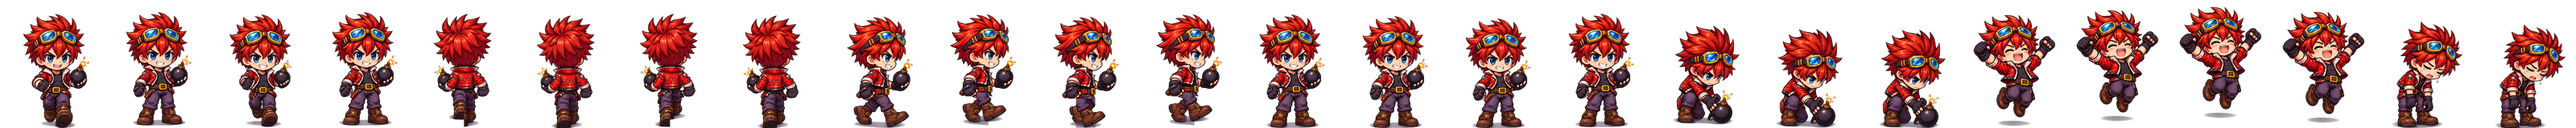
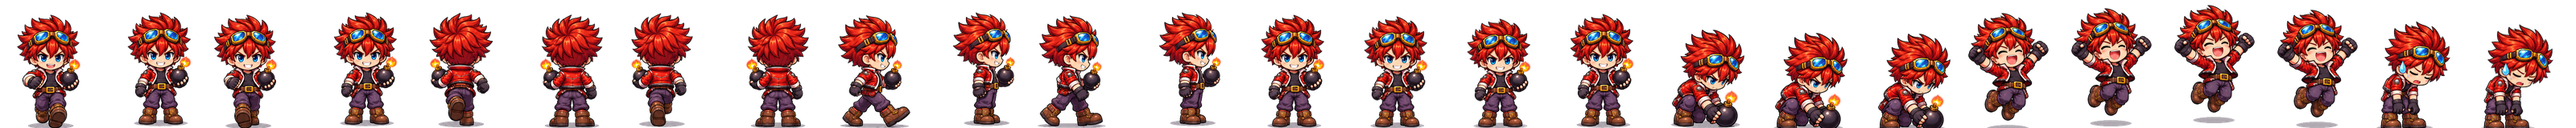
Demolidor em 12 poses com passos reais; folhas de cor antigas removidas
Claude-Session: https://claude.ai/code/session_01GYAS9qPtfjEUuFc1mzz6HS

diff --git a/public/src/config/hdArt.js b/public/src/config/hdArt.js
@@ -37,4 +37,4 @@ export const HD_GROUPS = {"0_0": ["map_w0z0", "rock_w0z0", "rock_w0z0_d1", "rock
 
 // Heróis: folha hc_CLASSE_rRARIDADE.png (cores da variação 0) com quadros fw×fh; recolor[v] = pares [cor da variação 0, cor da variação v];
 // anims = [primeiro quadro, quantidade, quadros/s, ordem opcional].
-export const HD_HEROES = {"fw": 64, "fh": 80, "lw": 16.0, "lh": 20.0, "pivot": 0.7, "fieldScale": 4, "palettes": 8, "rarities": 5, "idleFrame": 12, "roles": ["attacker", "support", "collector", "specialist"], "frames": 25, "anims": {"walk_down": [0, 4, 9], "walk_up": [4, 4, 9], "walk_side": [8, 4, 10], "idle": [12, 4, 6, [0, 0, 0, 1, 2, 2, 2, 2, 1, 0, 0, 0, 1, 2, 2, 2, 2, 1, 0, 3, 0, 0]], "plant": [16, 3, 12], "cheer": [19, 4, 10], "tired": [23, 2, 3]}, "recolor": [[], [[1313802, 526348], [1981050, 3809296], [2758672, 1184288], [3038384, 5911576], [4466712, 1973808], [4858904, 3808272], [4884184, 8014886], [6175266, 2894916], [7231409, 8276082], [7826385, 9524087], [8015920, 4210780], [8670327, 7227013], [8931959, 8275314], [8946920, 10772863], [9062960, 6961184], [9091312, 10119742], [10119748, 5921400], [11379190, 12022669], [12745302, 10115638], [13532316, 12020361], [13596254, 11886922], [15111602, 13664154], [15307127, 13662301], [15377532, 12877396], [15641287, 14717873], [16304288, 14721146]], [[1313802, 3810312], [2758672, 6965780], [4466712, 10122276], [4858904, 5122592], [6175266, 13147194], [8015920, 15254624], [8670327, 12024190], [8931959, 9063804], [9062960, 9721930], [10119748, 16442522], [12745302, 13668472], [13532316, 14125488], [13596254, 14189684], [15111602, 15508424], [15307127, 15704464], [15377532, 16039074], [15641287, 15906012], [16304288, 16767172]], [[1313802, 526348], [1981050, 3809296], [2758672, 1184288], [3038384, 5911576], [4466712, 1973808], [4858904, 2757642], [4884184, 8014886], [6175266, 2894916], [7231409, 8276082], [7826385, 9524087], [8015920, 4210780], [8670327, 7227013], [8931959, 7684207], [8946920, 10772863], [9062960, 5122068], [9091312, 10119742], [10119748, 5921400], [11379190, 12022669], [12745302, 7618590], [13532316, 10508923], [13596254, 10244154], [15111602, 11823749], [15307127, 11690310], [15377532, 9853488], [15641287, 13007763], [16304288, 11827272]], [[1313802, 2755590], [1981050, 1722916], [2758672, 5904908], [3038384, 2782264], [4466712, 9055764], [4884184, 4497488], [6175266, 11814430], [7231409, 7102590], [7826385, 7698826], [8015920, 14181422], [8670327, 11358325], [8946920, 8688536], [9091312, 8178820], [10119748, 15764562], [11379190, 10857911]], [[1981050, 3809296], [3038384, 5911576], [4858904, 3808272], [4884184, 8014886], [7231409, 8276082], [7826385, 9524087], [8931959, 8275314], [8946920, 10772863], [9062960, 6961184], [9091312, 10119742], [11379190, 12022669], [12745302, 10115638], [13532316, 12020361], [13596254, 11886922], [15111602, 13664154], [15307127, 13662301], [15377532, 12877396], [15641287, 14717873], [16304288, 14721146]], [[1981050, 1722916], [3038384, 2782264], [4858904, 5122592], [4884184, 4497488], [7231409, 7102590], [7826385, 7698826], [8931959, 9063804], [8946920, 8688536], [9062960, 9721930], [9091312, 8178820], [11379190, 10857911], [12745302, 13668472], [13532316, 14125488], [13596254, 14189684], [15111602, 15508424], [15307127, 15704464], [15377532, 16039074], [15641287, 15906012], [16304288, 16767172]], [[1313802, 3810312], [1981050, 3809296], [2758672, 6965780], [3038384, 5911576], [4466712, 10122276], [4858904, 2757642], [4884184, 8014886], [6175266, 13147194], [7231409, 8276082], [7826385, 9524087], [8015920, 15254624], [8670327, 12024190], [8931959, 7684207], [8946920, 10772863], [9062960, 5122068], [9091312, 10119742], [10119748, 16442522], [11379190, 12022669], [12745302, 7618590], [13532316, 10508923], [13596254, 10244154], [15111602, 11823749], [15307127, 11690310], [15377532, 9853488], [15641287, 13007763], [16304288, 11827272]]], "sheets": {"attacker": [0, 1, 2], "support": [0], "collector": [0], "specialist": [0]}};
+export const HD_HEROES = {"fw": 64, "fh": 80, "lw": 16.0, "lh": 20.0, "pivot": 0.7, "fieldScale": 4, "palettes": 8, "rarities": 5, "idleFrame": 12, "roles": ["attacker", "support", "collector", "specialist"], "frames": 25, "anims": {"walk_down": [0, 4, 9], "walk_up": [4, 4, 9], "walk_side": [8, 4, 10], "idle": [12, 4, 6, [0, 0, 0, 1, 2, 2, 2, 2, 1, 0, 0, 0, 1, 2, 2, 2, 2, 1, 0, 3, 0, 0]], "plant": [16, 3, 12], "cheer": [19, 4, 10], "tired": [23, 2, 3]}, "recolor": [[], [[1313802, 526348], [1981050, 3809296], [2758672, 1184288], [3038384, 5911576], [4466712, 1973808], [4858904, 3808272], [4884184, 8014886], [6175266, 2894916], [7231409, 8276082], [7826385, 9524087], [8015920, 4210780], [8670327, 7227013], [8931959, 8275314], [8946920, 10772863], [9062960, 6961184], [9091312, 10119742], [10119748, 5921400], [11379190, 12022669], [12745302, 10115638], [13532316, 12020361], [13596254, 11886922], [15111602, 13664154], [15307127, 13662301], [15377532, 12877396], [15641287, 14717873], [16304288, 14721146]], [[1313802, 3810312], [2758672, 6965780], [4466712, 10122276], [4858904, 5122592], [6175266, 13147194], [8015920, 15254624], [8670327, 12024190], [8931959, 9063804], [9062960, 9721930], [10119748, 16442522], [12745302, 13668472], [13532316, 14125488], [13596254, 14189684], [15111602, 15508424], [15307127, 15704464], [15377532, 16039074], [15641287, 15906012], [16304288, 16767172]], [[1313802, 526348], [1981050, 3809296], [2758672, 1184288], [3038384, 5911576], [4466712, 1973808], [4858904, 2757642], [4884184, 8014886], [6175266, 2894916], [7231409, 8276082], [7826385, 9524087], [8015920, 4210780], [8670327, 7227013], [8931959, 7684207], [8946920, 10772863], [9062960, 5122068], [9091312, 10119742], [10119748, 5921400], [11379190, 12022669], [12745302, 7618590], [13532316, 10508923], [13596254, 10244154], [15111602, 11823749], [15307127, 11690310], [15377532, 9853488], [15641287, 13007763], [16304288, 11827272]], [[1313802, 2755590], [1981050, 1722916], [2758672, 5904908], [3038384, 2782264], [4466712, 9055764], [4884184, 4497488], [6175266, 11814430], [7231409, 7102590], [7826385, 7698826], [8015920, 14181422], [8670327, 11358325], [8946920, 8688536], [9091312, 8178820], [10119748, 15764562], [11379190, 10857911]], [[1981050, 3809296], [3038384, 5911576], [4858904, 3808272], [4884184, 8014886], [7231409, 8276082], [7826385, 9524087], [8931959, 8275314], [8946920, 10772863], [9062960, 6961184], [9091312, 10119742], [11379190, 12022669], [12745302, 10115638], [13532316, 12020361], [13596254, 11886922], [15111602, 13664154], [15307127, 13662301], [15377532, 12877396], [15641287, 14717873], [16304288, 14721146]], [[1981050, 1722916], [3038384, 2782264], [4858904, 5122592], [4884184, 4497488], [7231409, 7102590], [7826385, 7698826], [8931959, 9063804], [8946920, 8688536], [9062960, 9721930], [9091312, 8178820], [11379190, 10857911], [12745302, 13668472], [13532316, 14125488], [13596254, 14189684], [15111602, 15508424], [15307127, 15704464], [15377532, 16039074], [15641287, 15906012], [16304288, 16767172]], [[1313802, 3810312], [1981050, 3809296], [2758672, 6965780], [3038384, 5911576], [4466712, 10122276], [4858904, 2757642], [4884184, 8014886], [6175266, 13147194], [7231409, 8276082], [7826385, 9524087], [8015920, 15254624], [8670327, 12024190], [8931959, 7684207], [8946920, 10772863], [9062960, 5122068], [9091312, 10119742], [10119748, 16442522], [11379190, 12022669], [12745302, 7618590], [13532316, 10508923], [13596254, 10244154], [15111602, 11823749], [15307127, 11690310], [15377532, 9853488], [15641287, 13007763], [16304288, 11827272]]], "sheets": {"attacker": [0], "support": [0], "collector": [0], "specialist": [0]}};
